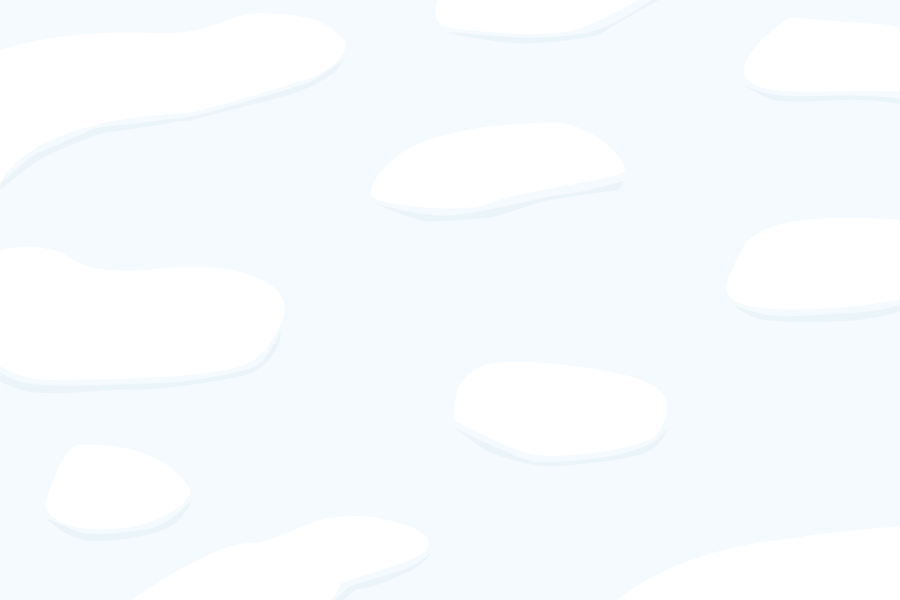
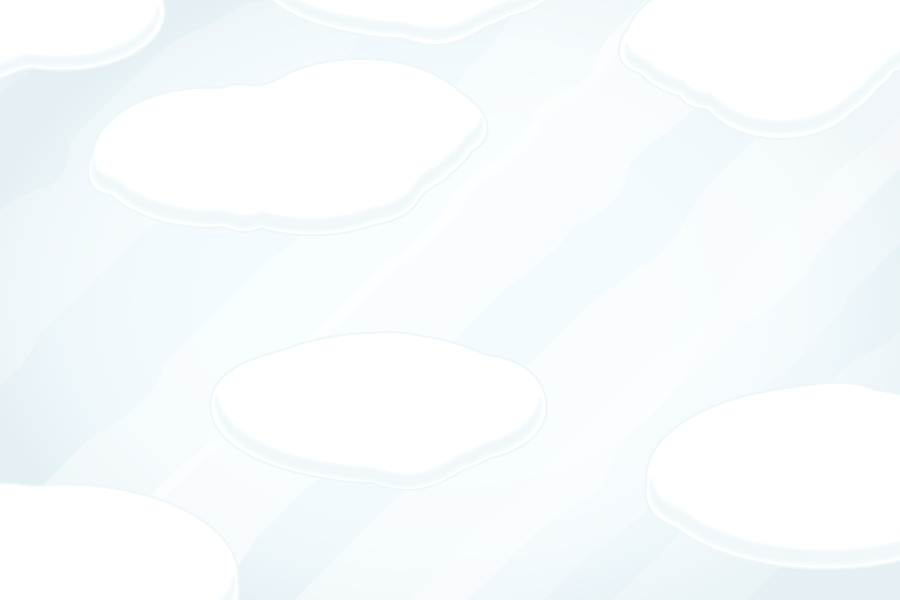
adding new field entities, adding new battlefield

Changed region(s): [[0.8089, 0.93, 1.0, 1.0], [0.0, 0.09, 0.1556, 0.3], [0.1556, 0.06, 0.1867, 0.09]]

diff --git a/server/controllers/SnowGame.js b/server/controllers/SnowGame.js
@@ -63,7 +63,7 @@ SnowGame = (function()
 			var aFieldEntity,
 				aFieldEntityModel;
 
-			var rand = 2;//Math.floor(Math.random() * 2) + 1;
+			var rand = 3;//Math.floor(Math.random() * 2) + 1;
 
 			var entities = this['getBattlefield'+rand]();
 
@@ -299,8 +299,13 @@ SnowGame = (function()
 				  { position: { x: 50, y: 220 }, entityType: FieldEntityModel.blockOfIce1 },
 				  { position: { x: 850, y: 300 }, entityType: FieldEntityModel.blockOfIce4 },
 				  { position: { x: 226, y: 550 }, entityType: FieldEntityModel.blockOfIce2 },
-				  { position: { x: 526, y: 350 }, entityType: FieldEntityModel.smallPond2 }
-				  ];
+				  { position: { x: 526, y: 350 }, entityType: FieldEntityModel.smallPond2 },
+
+				  { position: { x: 650, y: 50 }, entityType: FieldEntityModel.brownReindeer },
+				  { position: { x: 650, y: 200 }, entityType: FieldEntityModel.greenReindeer },
+				  { position: { x: 650, y: 350 }, entityType: FieldEntityModel.candyCane },
+				  { position: { x: 650, y: 550 }, entityType: FieldEntityModel.sleighInGround }
+			  ];
 
 		},
 
@@ -317,8 +322,29 @@ SnowGame = (function()
 				  { position: { x: 226, y: 550 }, entityType: FieldEntityModel.blockOfIce2 },
 				  { position: { x: 450, y: 540 }, entityType: FieldEntityModel.smallPond2 },
 				  { position: { x: 750, y: 80 }, entityType: FieldEntityModel.blockOfIce1 },
-				  { position: { x: 810, y: 250 }, entityType: FieldEntityModel.iglooRedFlag },
-				  ];
+				  { position: { x: 810, y: 250 }, entityType: FieldEntityModel.iglooRedFlag }
+			  ];
+
+		},
+
+		getBattlefield3: function()
+		{
+		  return [
+				  { position: { x: 270, y: 184}, entityType: FieldEntityModel.gingerBreadHouse },
+				  { position: { x: 179, y: 228}, entityType: FieldEntityModel.candyCane },
+				  { position: { x: 726, y: 508}, entityType: FieldEntityModel.iglooRedFlag },
+				  { position: { x: 803, y: 539}, entityType: FieldEntityModel.candyCane },
+				  { position: { x: 814, y: 191}, entityType: FieldEntityModel.blockOfIce5 },
+				  { position: { x: 169, y: 473}, entityType: FieldEntityModel.largePond1 },
+				  { position: { x: 704, y: 321}, entityType: FieldEntityModel.smallPond2 },
+				  { position: { x: 76, y: 70}, entityType: FieldEntityModel.blockOfIce6 },
+				  { position: { x: 576, y: 139}, entityType: FieldEntityModel.iceMountainOgilvyFlag },
+				  { position: { x: 447, y: 337}, entityType: FieldEntityModel.blockOfIce4 }
+
+
+
+
+			  ];
 
 		},
 

diff --git a/client/js/model/FieldEntityModel.js b/client/js/model/FieldEntityModel.js
@@ -32,7 +32,10 @@ var init = function(EntityModel)
 		largePond1				: { initialPosition:{x:5, y:5}, collisionMask: charactersOnly, collisionOffset: {x:0, y:10},radius: 91,	theme: '112' },
 		smallPond1				: { initialPosition:{x:5, y:5}, collisionMask: charactersOnly, collisionOffset: {x:0, y:0},	radius: 35,	theme: '113' },
 		smallPond2				: { initialPosition:{x:5, y:5}, collisionMask: charactersOnly, collisionOffset: {x:0, y:-12},	radius: 42,	theme: '114' },
-		smallPond3				: { initialPosition:{x:5, y:5}, collisionMask: charactersOnly, collisionOffset: {x:0, y:0},	radius: 35,	theme: '115' }
+		brownReindeer			: { initialPosition:{x:5, y:5}, collisionMask: charactersOnly, collisionOffset: {x:0, y:0},	radius: 15,	theme: '115' },
+		greenReindeer			: { initialPosition:{x:5, y:5}, collisionMask: charactersOnly, collisionOffset: {x:0, y:0},	radius: 15,	theme: '116' },
+		candyCane				: { initialPosition:{x:5, y:5}, collisionMask: charactersOnly, collisionOffset: {x:0, y:0},	radius: 24,	theme: '117' },
+		sleighInGround			: { initialPosition:{x:5, y:5}, collisionMask: charactersOnly, collisionOffset: {x:0, y:0},	radius: 25,	theme: '118' }
 	}
 };
 

diff --git a/client/js/model/EntityModel.js b/client/js/model/EntityModel.js
@@ -29,7 +29,11 @@ var init = function(ThemeModel)
 	CAAT_THEME_MAP['112'] = new ThemeModel('large-pond-1.png', 1, 1, 0, 0);
 	CAAT_THEME_MAP['113'] = new ThemeModel('small-pond-1.png', 1, 1, 0, 0);
 	CAAT_THEME_MAP['114'] = new ThemeModel('small-pond-2.png', 1, 1, 0, 0);
-	CAAT_THEME_MAP['115'] = new ThemeModel('small-pond-3.png', 1, 1, 0, 0);
+	CAAT_THEME_MAP['115'] = new ThemeModel('brown-reindeer.png', 1, 1, 0, 0);
+	CAAT_THEME_MAP['116'] = new ThemeModel('green-reindeer.png', 1, 1, 0, 0);
+	CAAT_THEME_MAP['117'] = new ThemeModel('candy-cane.png', 1, 1, 0, 0);
+	CAAT_THEME_MAP['118'] = new ThemeModel('sleigh-in-ground.png', 1, 1, 0, 0);
+
 	// Characters
 	CAAT_THEME_MAP['200'] = new ThemeModel('character-yeti.png', 1, 10, 0, 2);
 	CAAT_THEME_MAP['201'] = new ThemeModel('character-penguin.png', 1, 10, 0, 2);

diff --git a/client/js/view/GameView.js b/client/js/view/GameView.js
@@ -48,7 +48,7 @@ define( ['lib/Rectangle', 'view/managers/OverlayManager', 'view/managers/CookieM
 
 			this.statHTML = null;
 
-			var showStats = "getContext" in document.createElement("canvas");
+			var showStats = false; // "getContext" in document.createElement("canvas");
 			if(showStats) {
 				var stats = new Stats();
 				stats.domElement.style.position = 'absolute';
